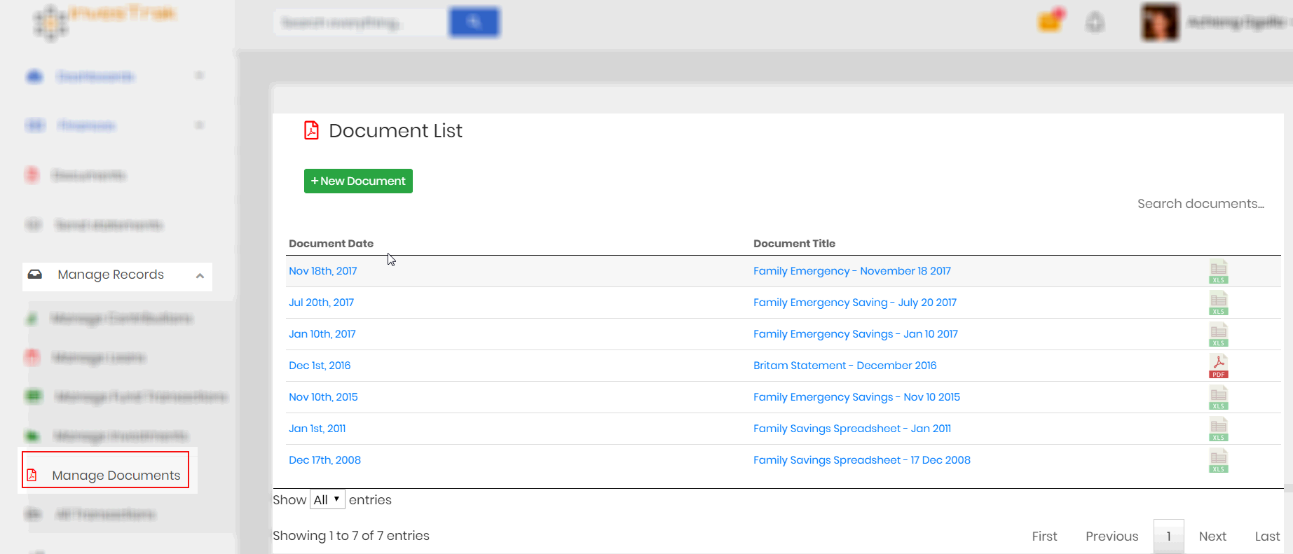
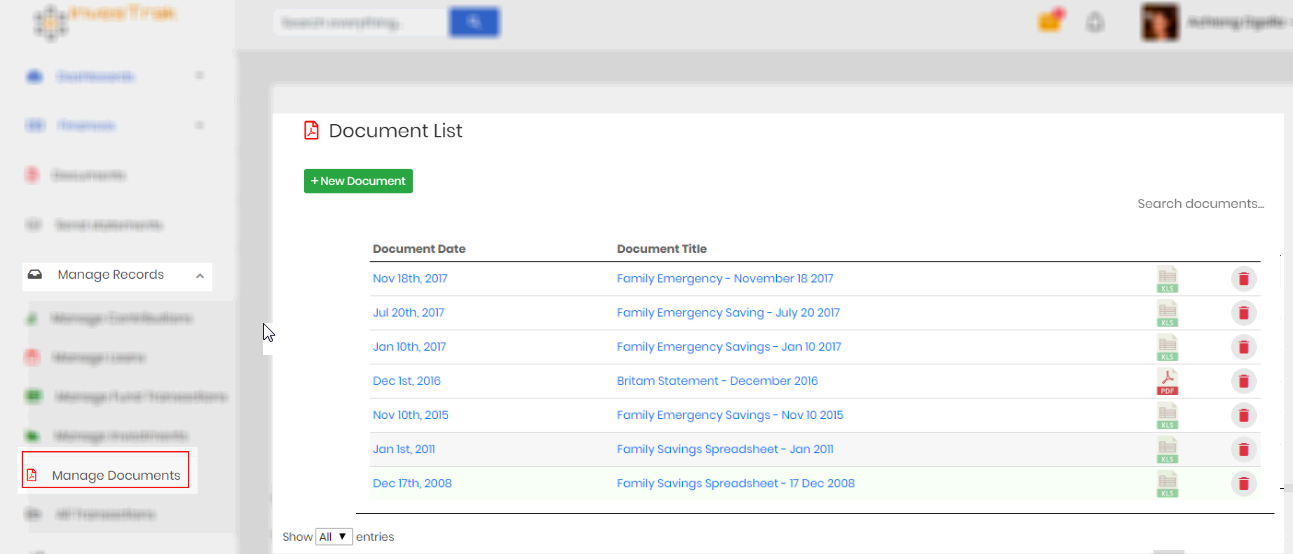
Majar content Addition
More content and images for the Manage records section

diff --git a/docs/manage-records.md b/docs/manage-records.md
@@ -1,47 +1,213 @@
 # Manage records
 
-?> As a committee member, you’ll have an additional area labeled `Manage Records`. In this section, you’ll have several additional links to allow administration of the site. Menu links in this area are visible depending of the access permission of the logged in member. The `Admin`, `Treasurer` or member with the permission `finance_write` will be able to add, edit and remove transactions. All other committee members or member with the permission `finance_read_all` will be able to view all transactions. The sections will be `View All Records` instead.
+?> As a committee member, you’ll have an additional area labeled `Manage Records`. In this section, you’ll have several additional links to allow administration of the site. Menu links in this area are visible depending of the access permission of the logged in member. The `Admin`, `Treasurer` or member with the permission `finance_write` will be able to add, edit and remove transactions. All other committee members or members with the permission `finance_read_all` will be able to view all transactions. The sections will be `View All Records` instead.
 
 ## Manage Contributions
 
 !>Editing, adding or deleting contribution records can only be done by the `Admin`, `Treasurer` or member with the permission `finance_write`. Other committee members or member with the permission `finance_read_all` can view all contribution records in read-only mode.
 
-This page used to Add, Edit or Delete records for contributions made by members. The page is similar to the [My Contributions](finances.md#my-contributions) page with a few extra buttons - `New Contribution` and `Delete` for each record - which allows for managing the records.
+This page used to Add, Edit or Delete records for contributions made by members.
 
 ![alt text](images/6.2_Manage_Contributions.png "manage contributions page")
 
+The page is similar to the [`My Contributions`](finances.md#my-contributions) page with a few extra buttons i.e. The `New Contribution` button at the top of the page and the `Delete` button for each record - which allows for managing the records. These are explained in more detail below.
+
+### Add Contributions
+You can add contributions using the `New Contribution` button on this page. In the `Create Contribution` page, provide the following information:
+
+- `Account` – Select the name of the account to be associated with the contribution payment.
+- `Date` – Select the date the payment was made.
+- `Amount` – Enter the amount paid.
+- `Category` – Select the category of the payment e.g. Monthly Contribution or Lump sum payment.
+- `Type` – Select whether the transaction was a payment or receipt.
+- `Memo` – Add any additional information regarding the transaction.
+
+![alt text](images/6.2.1_Allocation_Added.png "Delete contribution")
+
+?>As soon as the new contribution record is saved, it allocates the total contribution amount to the month associated with the date of the contribution. `Allocations` are useful if one large payment was made from an account, that is to be distributed for several months. The single payment is saved as one contribution. `Allocations` are then used to apportion the single contribution payment to different months.
+
+
+### Edit Contributions
+From the `Contributions List` page, click on a contribution record to edit it. The `Edit Contribution` page allows you to edit the records described above in the `Add contributions` page.
+
+The `Edit Contribution` page contains an additional section, where the `Allocations Table` will displayed.
+
+![alt text](images/6.2.3_Allocations.png "Contribution Allocation Section")
+
+- `New Allocation`button - Used to create a new allocation.
+- `Search Allocations` box - used to search for a specific allocation.
+- `Allocations Table` - that lists all allocations associated with the contribution. The table shows the following columns.
+
+  - `Posting Period` - A Year-Month combination to determine the month to be associated with the allocation.
+  - `Amount` - Amount to be allocated to this
+  - `Expected` - This is an automatically calculated amount. The system determines the expected amount based on the monthly expected amount for that particular month as well as the number of active members associated with the respective account.
+
+Click on an existing `Allocation` record on the table to edit it. An `Allocation` record can be deleted using the `Red Trash can` ![alt text](images/red_trash_button.png "Red trash can button") button next to the record.
+
+!> When creating multiple allocations, ensure that the sum of all allocations equals the contribution amount.
+
+### Delete Contributions
+!> Deleting a contribution record will also delete any associated records (like allocations). Use caution.
+
+Each contribution record has an `expand/collapse` button ![alt text](images/expand_collapse.png "expand/collapse button"), that provides additional information on the record. When the record is expanded, it displays a `Delete` button which you can use to delete the contribution record.
+
+![alt text](images/6.2.2_Delete_Contribution.png "Delete contribution")
 
 ## Manage Loans
 
 !>Editing, adding or deleting loan records can only be done by the `Admin`, `Treasurer` or member with the permission `finance_write`. Other committee members or members with the permission `finance_read_all` can view all contribution records in read-only mode.
 
-This page used to Add, Edit or Delete records for loans disbursed to members. The page is similar to the [My Loans](finances.md#my-loans) page with a few extra buttons - `New Loan` and `Delete` for each record - which allows for managing the records.
+This page used to Add, Edit or Delete records for loans disbursed to members. The page is similar to the [`My Loans`](finances.md#my-loans) page with a few extra buttons i.e. The `New Loan` button at the top of the page and the `Delete` button for each record - which allows for managing the records. These are explained in more detail below.
 
 ![alt text](images/6.3_Manage_Loans.png "manage loans page")
+
+### Add New Loan
+You can add new loans using the `New Loan` button on `Loan List` page. In the `Create Loan` page, provide the following information:
+
+- `Account` – The name of the account that the loan is to be disbursed to.
+- `Loan Date` – The date the loan is to be disbursed.
+- `Loan Amount` – The amount to be disbursed.
+- `Interest Type` – Should the system charge Simple or Compound interest?
+- `Interest(%APR)` – The Annual Percentage Rate to be used to calculated monthly interest.
+- `Start payment` – When the first payment is expected (this affects when the interest calculations begin).
+- `Period` – How many months to complete the payments (useful in calculating estimated monthly repayments).
+- `Memo` – Any additional information regarding the transaction.
+
+### Edit Loan
+
+From the `Loan List` page click on a loan record to edit it. The `Edit Loan` page allows you to edit the records described above in the `Add New Loan` section. This page contains an additional sections, where the `Loan status` section and `Loan Payments` table are displayed.
+
+![alt text](images/6.3.1_Loan_Status.png "loans status section")
+
+The `Loan status` section displays the following  automatically calculated fields:
+
+- `Calculated monthly payments` – Estimated monthly repayments based on the interest rates and payment periods.
+- `Outstanding Loan Amount` – Outstanding loan based on the calculated interest first day payment is expected.
+
+![alt text](images/6.3.2_Loan_Payments.png "loans payments section")
+
+The  `Loan Payments` section is displayed with the following details:
+
+- `New Loan Payment` button – used to create a new loan payment.
+- `Search Transactions` box - used to search for a specific loan payment or interest charge.
+- `Loan Payments` table - A list of payments made, and monthly interest calculated for the loan.The table shows the following columns.
+
+  - `All Transactions` - displaying both payments and calculated interest
+  - `Payments only` - displaying just the loan payments submitted.
+
+Click on an existing loan payment on the table to edit it. An `Loan Payment` record can be deleted in much the same way as an `Loan` record (Use the expand/collapse button on the record to show the `Delete` button).
+
+?>A `Calculated interest` record cannot be edited or deleted.
+
+### Delete loans
+
+!> Deleting a loan record will also delete any associated records (like loan payments). Use caution.
+
+Each loan record has an `expand/collapse` button ![alt text](images/expand_collapse.png "expand/collapse button"), that provides additional information on the record. When the record is expanded, it displays a `Delete` button which you can use to delete the loan record.
+
+![alt text](images/6.3.3_Delete_Loan.png "Delete loan")
 
 ## Manage Fund Transactions
 
 !>Editing, adding or deleting fund transaction records can only be done by the `Admin`, `Treasurer` or member with the permission `finance_write`.
 
-This page is used to Add, Edit or Delete fund transactions. The page is similar to the [Fund Transactions](finances.md#fund-transactions) page with a few extra buttons - `New Fund Transaction` and `Delete` for each record - which allows for managing the records.
+This page is used to Add, Edit or Delete fund transactions. The page is similar to the [`Fund Transactions`](finances.md#fund-transactions) page with a few extra buttons i.e. The `New Fund Transaction` button at the top of the page and the `Delete` button for each record - which allows for managing the records. These are explained in more detail below.
 
 ![alt text](images/6.4_Manage_Fund_Transactions.png "manage fund transactions page")
+
+### Add Fund Transactions
+
+You can add new fund transactions using the `New Fund Transaction` button on `Fund Transaction List` page. In the `Create Fund Transaction` page, provide the following information:
+
+- `Activity Date` – Select the date the of the fund transaction.
+- `Category` – Select whether the transaction is an expense or an income.
+- `Amount` – Enter the transaction amount.
+- `Memo` – Enter any additional information regarding the transaction.
+
+### Edit Fund Transaction
+
+From the `Fund Transaction List` page click on a loan record to edit it. The `Edit Fund Transaction` page allows you to edit the records described above.
+
+### Delete Fund Transaction
+
+!> Deleting a Fund Transaction record may also delete any associated records and affect cash position. Use caution.
+
+Each `Fund Transaction` record has an `expand/collapse` button ![alt text](images/expand_collapse.png "expand/collapse button"), that provides additional information on the record. When the record is expanded, it displays a `Delete` button which you can use to delete the record.
+
+
+![alt text](images/6.4.2_Delete_Fund_Transaction.png "Delete Fund Transaction")
 
 ## Manage Investments
 
 !>Editing, adding or deleting investment records can only be done by the `Admin`, `Treasurer` or member with the permission `finance_write`.
 
-This page is used to Add, Edit or Delete Investment records. The page is similar to the [Investments](finances.md#manage-investments) page with a few extra buttons - `New Investment` and `Delete` for each record - which allows for managing the records.
+This page is used to Add, Edit or Delete Investment records. The page is similar to the [`Investments`](finances.md#manage-investments) page with a few extra buttons i.e. The `New Investment` button at the top of the page and the `Delete` button for each record - which allows for managing the records. These are explained in more detail below.
 
 ![alt text](images/6.5_Manage_Investments.png "manage investments page")
+
+### Add investment
+
+You can add new investments using the `New Investment` button on `Investment List` page. In the `Create Investment` page, provide the following information:
+
+- `Open Date` – Select the date the Investment was opened.
+- `Investment Active` - use the check-box to indicate whether the investment is active or not (default is active).
+- `Open Date` – Select the date the Investment was originally opened.
+- `Close Date` – Select the date the Investment was closed (if no longer active).
+- `Memo` – Any additional information regarding the transaction.
+
+### Edit investment
+
+From the `Investment List` page click on a investment record to edit it. The `Edit Investment` page allows you to edit the records described above in the `Add Investment` section. Additionally there are two fields which appear as follows:
+
+- `Investment Funding` – Enter the total amount that has been transferred from the fund into the Investment.
+- `Investment Value` – The total amount that the investment is worth (including gains and losses).
+
+The `Edit Investment` page contains an additional section, where the `Investment Transactions` table are displayed.
+
+![alt text](images/6.5.1_Investment_transactions.png "Investment transactions section")
+
+The  `Investment Transactions` section is displayed with the following details:
+
+- `New Investment Transactions` button – used to create a new investment transactions (Transfer to or from cash, interest, loss etc).
+- `Search Transactions` box - used to search for a specific investment transactions.
+- `Investment Transactions` table - A table the displays a list of individual investment transactions (The total of these make up the investment value).
+
+Click on an existing investment transaction on the table to edit it. An `Investment Transaction` record can be deleted in much the same way as an `Investment` record (Use the expand/collapse button on the record to show the `Delete` button).
+
+?>Whenever an investment transaction is created using `Deposit from Cash` or `Transfer to Cash` categories, a corresponding `Fund Transaction` is automatically created. This helps in the balancing of the Statement and calculating accurate Cash Position.
+
+### Delete investment
+
+!> Deleting an `Investment` record will also delete any associated records (like investment transactions and possibly fund transactions). Use caution.
+
+Each `Investment` record has an `expand/collapse` button ![alt text](images/expand_collapse.png "expand/collapse button"), that provides additional information on the record. When the record is expanded, it displays a `Delete` button which you can use to delete the record.
 
 ## Manage Documents
 
 !>Editing, adding or deleting documents can only be done by the `Admin`, `Treasurer` or member with the permission `finance_write`.
 
-This page is used to Add, Edit or Delete document records. The page is similar to the [Documents](documents.md) page with a few extra buttons - `New Document` and `Delete` for each record - which allows for managing the records.
+This page is used to Add, Edit or Delete document records. The page is similar to the [`Documents`](documents.md) page with a few extra buttons i.e. The `New Document` button at the top of the page and the `Delete` button for each record - which allows for managing the records. These are explained in more detail below.
 
 ![alt text](images/6.6_Manage_Documents.png "manage documents page")
+
+### Add document
+
+You can add new documents using the `New Document` button on `Document List` page. In the `Create Document` page, provide the following information:
+
+- `Document Title` – Enter a descriptive title by which the document can be identified.
+- `Document Date` – Select the date the Document was created.
+- `File Upload` – Use this button to upload the document file.
+- `Memo` – Enter any additional information regarding the transaction.
+
+### Edit document
+
+From the `Document List` page click on a document record to edit it. The `Edit Document` page allows you to edit the records described above.
+
+### Delete document
+
+A `Document` record can be deleted using the `Red Trash can` ![alt text](images/red_trash_button.png "Red trash can button") button next to the record.
+
+![alt text](images/6.6.1_Delete_document.png "Delete document")
 
 ## Statement
 
@@ -56,7 +222,7 @@ The page displays a table with columns follows:
 - `Month` - All months listed chronologically since the beginning of the club's financial transactions.
 - `Balance` - A running total that takes into account the previous months balance as well as all the transactions for the respective month.
 
-Each month row has an expand/collapse button that can be used to show or hide transactions individual transactions for that month. When the month row is expanded the corresponding records are displayed with the following columns:
+Each month row has an `expand/collapse` button ![alt text](images/expand_collapse.png "expand/collapse button") that can be used to show or hide transactions individual transactions for that month. When the month row is expanded the corresponding records are displayed with the following columns:
 
 - `Date` - The date that the transaction happened.
 - `Detail` - a description for the particular transactions.

diff --git a/docs/finances.md b/docs/finances.md
@@ -66,8 +66,13 @@ Details of the loan record include the following:
 - `Start payment` – When the first payment is expected.
 - `Period` – How many months to complete the payments (useful in calculating estimated monthly repayments).
 - `Memo` – Any additional information regarding the transaction.
+
+The following are  automatically:
 - `Loan status (estimated monthly repayments)` – Estimated Monthly Repayments based on the interest rates and payment periods.
 - `Loan status (outstanding)` – Outstanding loan based on the calculated interest first day payment is expected.
+
+An additional section is displayed with the following details:
+
 - `Payments` – A list of payments made, and monthly interest calculated for the loan.
 
 ## Fund Transactions
@@ -92,7 +97,7 @@ Clicking on a Fund Transaction record opens the `View Fund Transaction` page to 
 <!-- tabs:end -->
 
 Details of the fund transaction  record include:
-- `Activity Date` – The date the loan was disbursed.
+- `Activity Date` – The date the of the fund transaction.
 - `Category` – Expense or Income.
 - `Amount` – The transaction amount.
 - `Memo` – Any additional information regarding the transaction.
@@ -118,8 +123,9 @@ Clicking on an Investment record opens the `Edit Investment` page to display the
 
 Details of the investment record include:
 - `Open Date` – The date the Investment was opened.
+- `Investment Active` - a check-box that indicates whether or not the investment is active.
 - `Close Date` – The date the Investment was closed (if no longer active).
-- `Funding` – Total amount that has been invested into the Investment.
-- `Current` – The total amount that the investment is worth (including gains and losses).
+- `Investment Funding` – Total amount that has been invested into the Investment.
+- `Investment Value` – The total amount that the investment is worth (including gains and losses).
 - `Memo` – Any additional information regarding the transaction.
 - `Investment Transactions` – a table grid that display individual invest transactions including initial funding, losses gain etc.

diff --git a/docs/dashboards.md b/docs/dashboards.md
@@ -15,7 +15,7 @@ Use the dashboard area to view numbers, tables and graphs that provide a summary
 Under the Fund Dashboard area, members can view the following:
 
 - `Cash Position` – a card that displays how much money the fund has in the hand. It also displays what percentage this is of the Total fund value.
-- `Investments` – a card that displays how much money the fund has in investments. It also displays chart that shorts the investment value for the last several months.
+- `Investments` – a card that displays how much money the fund has in investments. It also displays chart that shows the investment value for the last several months.
 - `Loans` – a card that displays total outstanding loans from members.
 - `Arrears` – a card that displays total outstanding Contributions from members. It also displays what percentage this is of the Total fund value.
 - `Account status` – A table that with breakdown of each account showing respective contributions, progress (percentage of expected contributions that have been fulfilled), arrears and lumpsum payments.
